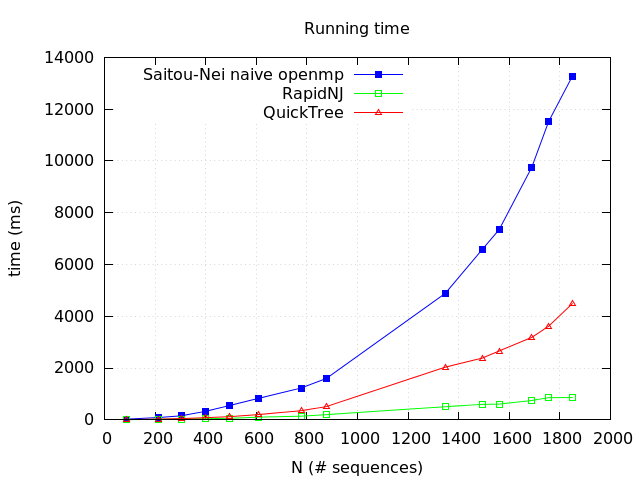
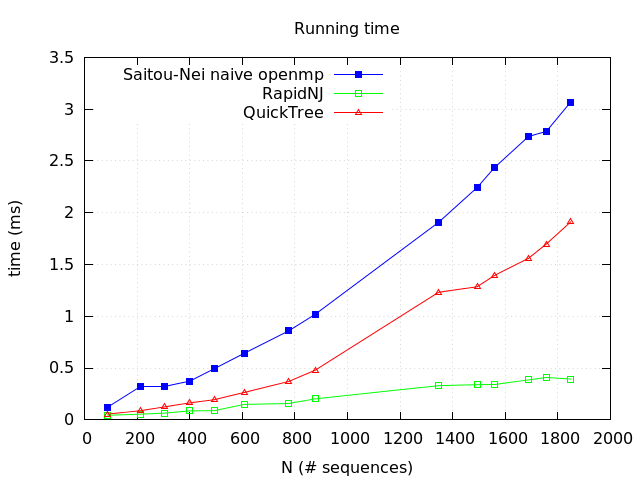
Added running time results

diff --git a/compare_nj.cpp b/compare_nj.cpp
@@ -4,25 +4,25 @@
 #include <fstream>
 #include <string>
 using namespace std;
-string files[14] = {"phylib/89_Adeno_E3_CR1.new"
-		    ,"phylib/214_Arena_glycoprot.new"
-		    ,"phylib/304_A1_Propeptide.new"
-		    ,"phylib/401_DDE.new"
-		    ,"phylib/494_Astro_capsid.new"
-		    ,"phylib/608_Gemini_AL2.new"
-		    ,"phylib/777_Gemini_V1.new"
-		    ,"phylib/877_Glu_synthase.new"
-		    ,"phylib/1347_FAINT.new"
-		    ,"phylib/1493_Fe-ADH.new"
-		    ,"phylib/1560_Ferritin.new"
-		    ,"phylib/1689_FGGY_N.new"
-		    ,"phylib/1756_FAD_binding_3.new"
-		    ,"phylib/1849_FG-GAP.new"};
+string files[14] = {"phylib/89_Adeno_E3_CR1.phy"
+		    ,"phylib/214_Arena_glycoprot.phy"
+		    ,"phylib/304_A1_Propeptide.phy"
+		    ,"phylib/401_DDE.phy"
+		    ,"phylib/494_Astro_capsid.phy"
+		    ,"phylib/608_Gemini_AL2.phy"
+		    ,"phylib/777_Gemini_V1.phy"
+		    ,"phylib/877_Glu_synthase.phy"
+		    ,"phylib/1347_FAINT.phy"
+		    ,"phylib/1493_Fe-ADH.phy"
+		    ,"phylib/1560_Ferritin.phy"
+		    ,"phylib/1689_FGGY_N.phy"
+		    ,"phylib/1756_FAD_binding_3.phy"
+		    ,"phylib/1849_FG-GAP.phy"};
 int sizes[14] = {89,214,304,401,494,608,777,877,
 		 1347,1493,1560,1689,1756,1849};
 
 int main() {
-  const int NUMBER_OF_RUNS = 1;
+  const int NUMBER_OF_RUNS = 10;
   test::clock c;
   ofstream qt_o("results/qt.dat");
   ofstream rnj_o("results/rnj.dat");
@@ -30,21 +30,24 @@ int main() {
   for (int i = 0; i < 14; i++) {
     c.start();
     for (int j = 0; j < NUMBER_OF_RUNS; j++) {
-      system(("./quicktree -in m -out t " + files[i] + " > trees/qt-"+to_string(sizes[i])+".new").c_str());
+      system(("./quicktree -in m -out t " + files[i]).c_str());
+      // system(("./quicktree -in m -out t " + files[i] + " > trees/qt-"+to_string(sizes[i])+".new").c_str());
     }
     c.stop();
     qt_o << sizes[i] << "\t" << c.count()/NUMBER_OF_RUNS << endl;
 
     c.start();
     for (int j = 0; j < NUMBER_OF_RUNS; j++) {
-      system(("./rapidnj -i pd -o t " + files[i] + " > trees/rnj-"+to_string(sizes[i])+".new").c_str());
+      // system(("./rapidnj -i pd -o t " + files[i] + " | sed -e \"s/'//g\" > trees/rnj-"+to_string(sizes[i])+".new").c_str());
+      system(("./rapidnj -i pd -o t " + files[i]).c_str());
     }
     c.stop();
     rnj_o << sizes[i] << "\t" << c.count()/NUMBER_OF_RUNS << endl;
 
     c.start();
     for (int j = 0; j < NUMBER_OF_RUNS; j++) {
-      system(("./nj " + files[i] + " > trees/MyNJ-"+to_string(sizes[i])+".new").c_str());
+      // system(("./nj " + files[i] + " > trees/MyNJ-"+to_string(sizes[i])+".new").c_str());
+      system(("./nj " + files[i]).c_str());
     }
     c.stop();
     sn_o << sizes[i] << "\t" << c.count()/NUMBER_OF_RUNS << endl;

diff --git a/rfdist.hpp b/rfdist.hpp
@@ -26,7 +26,6 @@ private:
 
 rfdist::rfdist() {};
 
-int nextid = 0;
 void rfdist::rename_t1(node* tree, std::map<node*, int> &visited, std::map<std::string, int> &df) {
   visited[tree] = 1;
   if (tree->name != "") df[tree->name] = nextid++;
@@ -91,7 +90,7 @@ int rfdist::distance(const char* t1, const char* t2) {
       if (n.first != f.second) q.push(std::make_pair(n.first,f.first));
   }
 
-  // std::cout << "rooted " << t1 << " in " << tree1->name << std::endl;
+  std::cout << "rooted " << t1 << " in " << tree1->name << std::endl;
   //2. find same leaf in tree2 and make that root
   q = std::queue<std::pair<node*,node*> >();
   q.push(std::make_pair(tree2,(node*)0));
@@ -102,7 +101,7 @@ int rfdist::distance(const char* t1, const char* t2) {
       if (n.first != f.second) q.push(std::make_pair(n.first, f.first));
   }
 
-  // std::cout << "rooted " << t2 << " in " << tree2->name << std::endl;
+  std::cout << "rooted " << t2 << " in " << tree2->name << std::endl;
 
   //remove the root nodes from the trees and make is only child the root:
   for (int i = 0; i < tree1->adj_list[0].first->adj_list.size(); i++)
@@ -119,12 +118,12 @@ int rfdist::distance(const char* t1, const char* t2) {
   //make a depth first numbering of the leaves in T1
   std::map<std::string,int> df;
   std::map<node*, int> visited;
-  // std::cout << "renaming " << t1 << std::endl;
+  std::cout << "renaming " << t1 << std::endl;
   rename_t1(tree1, visited, df);
   //rename the leaves in T2 cf. the df-numbering of leaves in T1
   visited.clear();
   std::map<std::string, int> df2;
-  // std::cout << "renaming " << t2 << std::endl;
+  std::cout << "renaming " << t2 << std::endl;
   rename_t2(tree2, visited, df, df2);
 
   //annotate internal nodes of T1 with their intervals according to DF-numbering
@@ -134,10 +133,10 @@ int rfdist::distance(const char* t1, const char* t2) {
   int splits_t1 = 0, splits_t2 = 0;
   std::map<node*,ii> ints;
   std::map<node*,int> sizes;
-  // std::cout << "annotating " << t1 << std::endl;
+  std::cout << "annotating " << t1 << std::endl;
   annotate(0,tree1, visited, df, ints, intervals_t1, sizes, splits_t1);
   visited.clear(); ints.clear(); sizes.clear();
-  // std::cout << "annotating " << t2 << std::endl;
+  std::cout << "annotating " << t2 << std::endl;
   annotate(0,tree2, visited, df2, ints, intervals_t2, sizes, splits_t2);
   sort(intervals_t1.begin(), intervals_t1.end());
   sort(intervals_t2.begin(), intervals_t2.end());

diff --git a/fix_ids.cpp b/fix_ids.cpp
@@ -1,0 +1,24 @@
+#include <iostream>
+#include <string>
+using namespace std;
+
+
+int main() {
+  
+  int N;
+  int next_id = 1;
+  double w;
+  string s;
+  cin >> N;
+  cout << N << std::endl;
+  for (int i = 0; i < N; i++) {
+    cin >> s; cout << next_id++ << " ";
+    for (int j = 0; j < N; j++) {
+      cin >> w;
+      cout << w << " ";
+    }
+    cout << std::endl;
+  }
+
+  return 0;
+}
